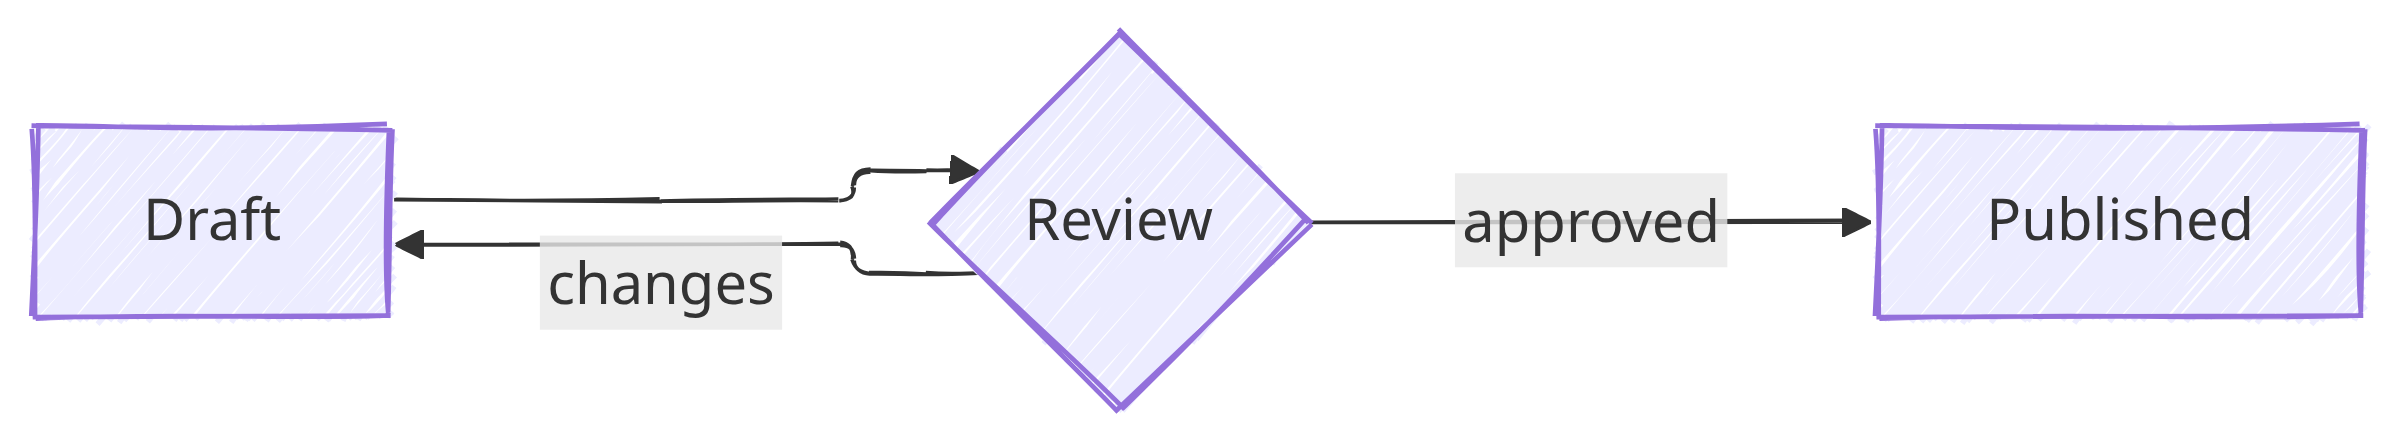
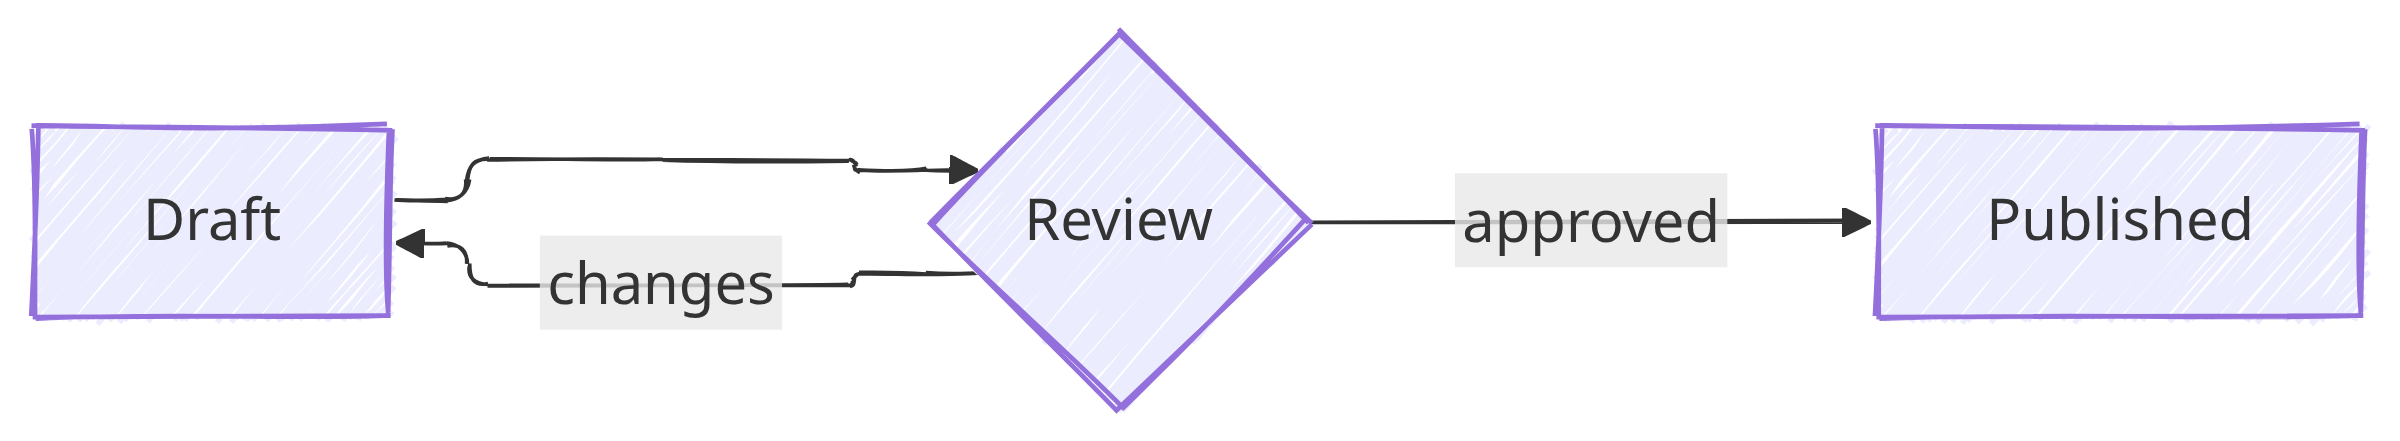
Pin mermaid 12.1's ELK edge routing in the house style
orientFeedbackEdges, new and on by default, reroutes existing ELK diagrams; off keeps their routing. straightenEdges off keeps a label in the lane ELK reserved for it, where 12.1 otherwise centres it over a neighbouring edge.

Document per-diagram overrides and the house-style keys a block can override. Samples regenerated.

diff --git a/src/server.js b/src/server.js
@@ -122,6 +122,12 @@ const LAYOUTS = new Set(['dagre', 'elk']);
 // `minNodeWidth` widens a short label to 120px by default, which widens the
 // diagram and so, at the width the wrapper gives it, shrinks its lettering. 0
 // fits each node to its text.
+//
+// `orientFeedbackEdges` reroutes an edge feeding back into a subgraph, on by
+// default since mermaid 12.1; off keeps the routing ELK books were drawn with.
+//
+// `straightenEdges` pulls an edge out of the lane ELK reserved for its label,
+// and from 12.1 the label follows it onto any edge running alongside.
 function houseStyle() {
   return {
     theme: PROJECT_THEME,
@@ -133,6 +139,7 @@ function houseStyle() {
     themeVariables: { fontFamily: PROJECT_FONT },
     flowchart: { minNodeWidth: 0 },
     state: { minNodeWidth: 0 },
+    elk: { orientFeedbackEdges: false, straightenEdges: false },
   };
 }
 

diff --git a/README.md b/README.md
@@ -124,6 +124,21 @@ system, while the reader's theme is a separate choice. WebKit ignores it for an
 SVG referenced by `<img>` in any case, which is every reader on iOS. A book that
 wants dark diagrams sets `dark`.
 
+### Per diagram
+
+The settings above and the house style below are defaults. A block overrides
+any of them, or sets anything else mermaid accepts, in its frontmatter
+`config:` or an `%%{init: …}%%` directive; mermaid documents
+[both](https://mermaid.js.org/config/configuration.html) and
+[every key](https://mermaid.js.org/config/schema-docs/config.html).
+
+| key | value | why |
+| --- | --- | --- |
+| `htmlLabels` | `false` | HTML labels render blank in many EPUB readers |
+| `flowchart.minNodeWidth`, `state.minNodeWidth` | `0` | a padded node widens the diagram and shrinks its lettering |
+| `elk.orientFeedbackEdges` | `false` | keeps the ELK routing from before mermaid 12.1 |
+| `elk.straightenEdges` | `false` | a straightened edge leaves its label overlapping the edge beside it |
+
 ### What each setting draws
 
 The same flowchart at every theme and at `handDrawn`, under each layout.
